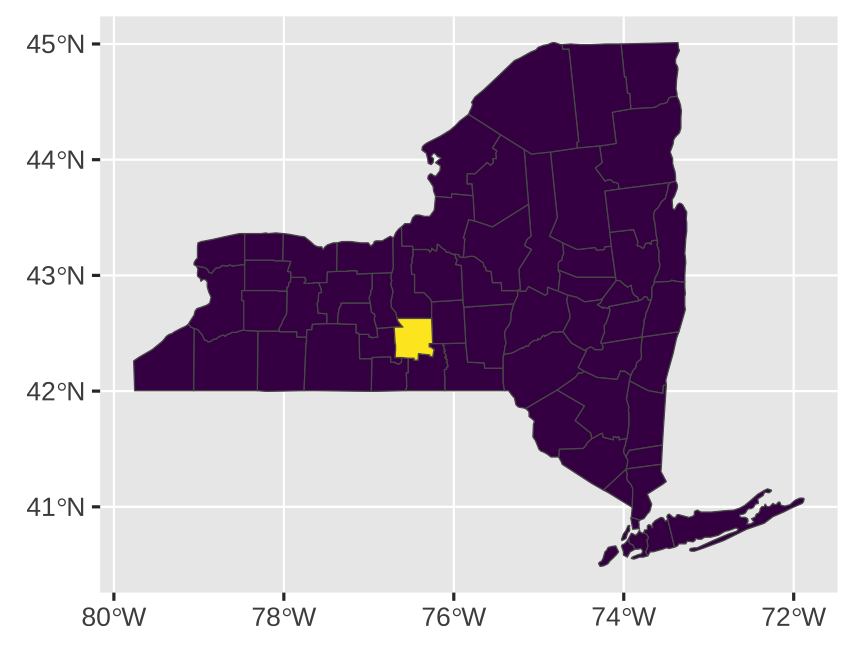
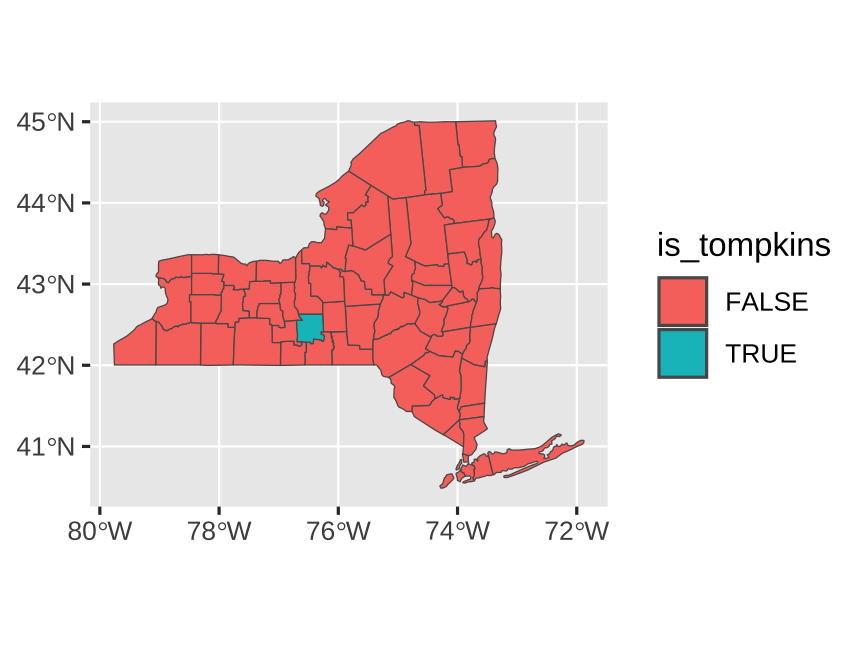
deploy: 169fb0e0fd5a940700bf5729b057332a56379f48

diff --git a/slides/11-slides.html b/slides/11-slides.html
@@ -294,7 +294,7 @@ https://www.census.gov/dataviz/visualizations/051/
 .center[
 &lt;figure&gt;
   &lt;img src="img/11/nyt-ukraine-refugees.png" alt="Refugees from Ukraine" title="Refugees from Ukraine" width="70%"&gt;
-  &lt;figcaption&gt;&lt;a href="https://www.nytimes.com/interactive/2022/03/15/opinion/ukraine-refugee-crisis.html" target="_blank"&gt;The New York Times, "Refugees from Ukraine, since Feb. 24"&lt;/a&gt;&lt;/figcaption&gt;
+  &lt;figcaption&gt;&lt;a href="https://www.nytimes.com/interactive/2022/03/15/opinion/ukraine-refugee-crisis.html" target="_blank"&gt;The New York Times, "Refugees from Ukraine, Feb. 24 - Mar. 13, 2022"&lt;/a&gt;&lt;/figcaption&gt;
 &lt;/figure&gt;
 ]
 
@@ -308,7 +308,7 @@ https://www.nytimes.com/interactive/2022/03/15/opinion/ukraine-refugee-crisis.ht
 
 .center[
 &lt;figure&gt;
-  &lt;img src="img/11/dc-photo-locations-small.jpg" alt="DC photo locations by locals and tourists" title="DC photo locations by locals and tourists" width="52%"&gt;
+  &lt;img src="img/11/dc-photo-locations-small.jpg" alt="DC photo locations by locals and tourists" title="DC photo locations by locals and tourists" width="65%"&gt;
   &lt;figcaption&gt;&lt;a href="https://www.flickr.com/photos/walkingsf/4672195208/in/album-72157624209158632/" target="_blank"&gt;Photos taken in DC: blue = locals; red = tourists; yellow = unknown&lt;/a&gt;&lt;/figcaption&gt;
 &lt;/figure&gt;
 ]
@@ -379,43 +379,17 @@ To make it easy to combine *attributes* with *spatial geometries*, `sf` stores f
 
 ---
 
-# Structure of an `sf` data frame
+# Importing `sf` data frames
 
-.small-code[
 
 ```r
-library(sf)
+library(sf) # load sf package
 world_shapes &lt;- read_sf("data/ne_110m_admin_0_countries/ne_110m_admin_0_countries.shp")
-world_shapes |&gt; select(TYPE, GEOUNIT, ISO_A3, geometry)
 ```
 
+--
 
-```
-## Simple feature collection with 176 features and 3 fields
-## Geometry type: MULTIPOLYGON
-## Dimension:     XY
-## Bounding box:  xmin: -180 ymin: -56 xmax: 180 ymax: 84
-## Geodetic CRS:  WGS 84
-## # A tibble: 176 × 4
-##    TYPE              GEOUNIT                  ISO_A3                              geometry
-##    &lt;chr&gt;             &lt;chr&gt;                    &lt;chr&gt;                     &lt;MULTIPOLYGON [°]&gt;
-##  1 Sovereign country Fiji                     FJI    (((180 -16, 180 -17, 179 -17, 179 -1…
-##  2 Sovereign country Tanzania                 TZA    (((34 -0.95, 34 -1.1, 38 -3.1, 38 -3…
-##  3 Indeterminate     Western Sahara           ESH    (((-8.7 28, -8.7 28, -8.7 27, -8.7 2…
-##  4 Sovereign country Canada                   CAN    (((-123 49, -123 49, -125 50, -126 5…
-##  5 Country           United States of America USA    (((-123 49, -120 49, -117 49, -116 4…
-##  6 Sovereign country Kazakhstan               KAZ    (((87 49, 87 49, 86 48, 86 47, 85 47…
-##  7 Sovereign country Uzbekistan               UZB    (((56 41, 56 45, 59 46, 59 46, 60 45…
-##  8 Sovereign country Papua New Guinea         PNG    (((141 -2.6, 143 -3.3, 145 -3.9, 145…
-##  9 Sovereign country Indonesia                IDN    (((141 -2.6, 141 -5.9, 141 -9.1, 140…
-## 10 Sovereign country Argentina                ARG    (((-69 -53, -68 -53, -68 -54, -66 -5…
-## # … with 166 more rows
-```
-]
-
----
-
-# `sf` data frames are data frames
+**`sf` data frames are data frames:**
 
 
 ```r
@@ -426,22 +400,31 @@ class(world_shapes)
 ## [1] "sf"         "tbl_df"     "tbl"        "data.frame"
 ```
 
+---
+
+# Inspecting `sf` data frames
+
+
 ```r
 world_shapes |&gt; 
-  filter(NAME == "United States of America") |&gt; 
-  select(NAME, TYPE, ISO_A3, geometry)
+  select(TYPE, GEOUNIT, ISO_A3, geometry) |&gt; 
+  head(5)
 ```
 
 ```
-## Simple feature collection with 1 feature and 3 fields
+## Simple feature collection with 5 features and 3 fields
 ## Geometry type: MULTIPOLYGON
 ## Dimension:     XY
-## Bounding box:  xmin: -170 ymin: 19 xmax: -67 ymax: 71
+## Bounding box:  xmin: -180 ymin: -18 xmax: 180 ymax: 83
 ## Geodetic CRS:  WGS 84
-## # A tibble: 1 × 4
-##   NAME                     TYPE    ISO_A3                                         geometry
-##   &lt;chr&gt;                    &lt;chr&gt;   &lt;chr&gt;                                &lt;MULTIPOLYGON [°]&gt;
-## 1 United States of America Country USA    (((-123 49, -120 49, -117 49, -116 49, -113 49,…
+## # A tibble: 5 × 4
+##   TYPE              GEOUNIT                  ISO_A3                               geometry
+##   &lt;chr&gt;             &lt;chr&gt;                    &lt;chr&gt;                      &lt;MULTIPOLYGON [°]&gt;
+## 1 Sovereign country Fiji                     FJI    (((180 -16, 180 -17, 179 -17, 179 -17…
+## 2 Sovereign country Tanzania                 TZA    (((34 -0.95, 34 -1.1, 38 -3.1, 38 -3.…
+## 3 Indeterminate     Western Sahara           ESH    (((-8.7 28, -8.7 28, -8.7 27, -8.7 26…
+## 4 Sovereign country Canada                   CAN    (((-123 49, -123 49, -125 50, -126 50…
+## 5 Country           United States of America USA    (((-123 49, -120 49, -117 49, -116 49…
 ```
 
 ---
@@ -554,7 +537,10 @@ counties |&gt;
   geom_sf()
 ```
 
+What will this code produce?
 ]
+
+--
 
 .right-plot[
 ![](11-slides_files/figure-html/filter-map-data-1.png)
@@ -562,23 +548,84 @@ counties |&gt;
 
 ---
 
+# We can mutate like normal
+
+All regular data frame operations work on `sf` data frames
+
+What will this code produce?
+
+
+```r
+counties |&gt;
+* mutate(is_albany = (county=="albany")) |&gt;
+  head(5)
+```
+
+--
+
+
+```
+## Simple feature collection with 5 features and 2 fields
+## Geometry type: MULTIPOLYGON
+## Dimension:     XY
+## Bounding box:  xmin: -79 ymin: 41 xmax: -74 ymax: 43
+## Geodetic CRS:  WGS 84
+##           county                           geom is_albany
+## 1793      albany MULTIPOLYGON (((-74 42, -74...      TRUE
+## 1794    allegany MULTIPOLYGON (((-78 42, -78...     FALSE
+## 1795       bronx MULTIPOLYGON (((-74 41, -74...     FALSE
+## 1796      broome MULTIPOLYGON (((-75 42, -76...     FALSE
+## 1797 cattaraugus MULTIPOLYGON (((-79 42, -79...     FALSE
+```
+
+
+---
+
 # We can use aesthetics like normal
 
-All regular ggplot layers and aesthetics work
+All regular ggplot aesthetics work
 
 .left-code[
 
 ```r
 counties |&gt;
-* ggplot(aes(fill = (county=="tompkins"))) +
-  geom_sf() +
-  guides(fill = "none") + # omit legend
-  scale_fill_viridis_d()  # nicer colors
+  mutate(is_tompkins = (county=="tompkins")) |&gt; 
+* ggplot(aes(fill = is_tompkins)) +
+  geom_sf()
 ```
+What will this code produce?
 ]
+
+--
 
 .right-plot[
 ![](11-slides_files/figure-html/add-aes-1.png)
+]
+
+---
+
+# We can add layers like normal
+
+All regular ggplot layers work
+
+.left-code[
+
+```r
+counties |&gt;
+  mutate(is_tompkins = (county=="tompkins")) |&gt; 
+  ggplot(aes(fill = is_tompkins)) +
+  geom_sf() +
+* guides(fill = "none") +  # omit legend
+* scale_fill_viridis_d() + # nicer colors
+* theme_minimal()          # cleaner theme
+```
+What will this code produce?
+]
+
+--
+
+.right-plot[
+![](11-slides_files/figure-html/add-layers-1.png)
 ]
 
 ---
@@ -666,7 +713,7 @@ Make your own with `st_as_sf()`
 
 .less-left.small-code[
 
-
+ 
 
 ```r
 other_data
@@ -705,14 +752,60 @@ other_data |&gt;
 ```
 ]
 
-&lt;!-- --- --&gt;
+---
 
-&lt;!-- # No `geometry` column? --&gt;
-.pull-left[
+# Compute the distance from Cornell to Cancun
 
+Compute distances using `st_distance()`
+
+
+```r
+other_sf &lt;- other_data |&gt; 
+  st_as_sf(coords = c("long", "lat"), 
+           crs = st_crs("EPSG:4326"))
+
+other_sf |&gt; 
+* st_distance()
+```
+
+```
+## Units: [m]
+##         [,1]    [,2]
+## [1,]       0 2556310
+## [2,] 2556310       0
+```
+
+The distance from Cornell to Cancun is 2556 kilometers, or 1588 miles.
+
+
+
+---
+
+# Map the trip form Cornell to Cancun
+
+.left-code[
+
+```r
+world_shapes |&gt; 
+  ggplot() +
+  geom_sf() +
+  geom_sf(data = other_sf, 
+          color = "#B31B1B") +
+  coord_sf(crs = "+proj=robin")
+```
+What will this code produce?
+]
+
+--
+
+.right-plot[
+![](11-slides_files/figure-html/cornell-cancun-map-1.png)
 ]
 
 
+???
+
+Or make great circle plots: https://www.findingyourway.io/blog/2018/02/28/2018-02-28_great-circles-with-sf-and-leaflet/
 
 ---
 
